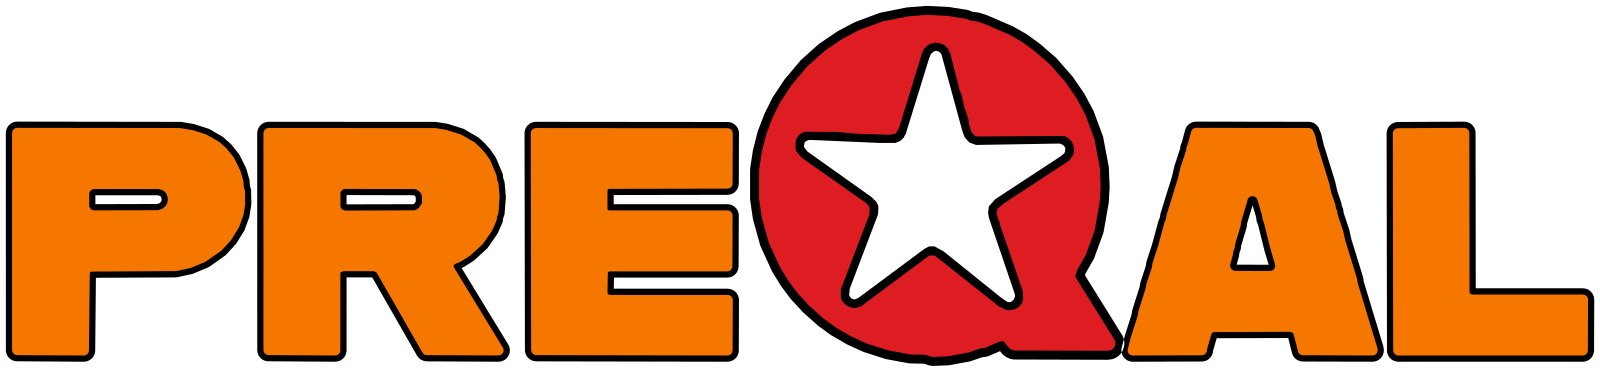
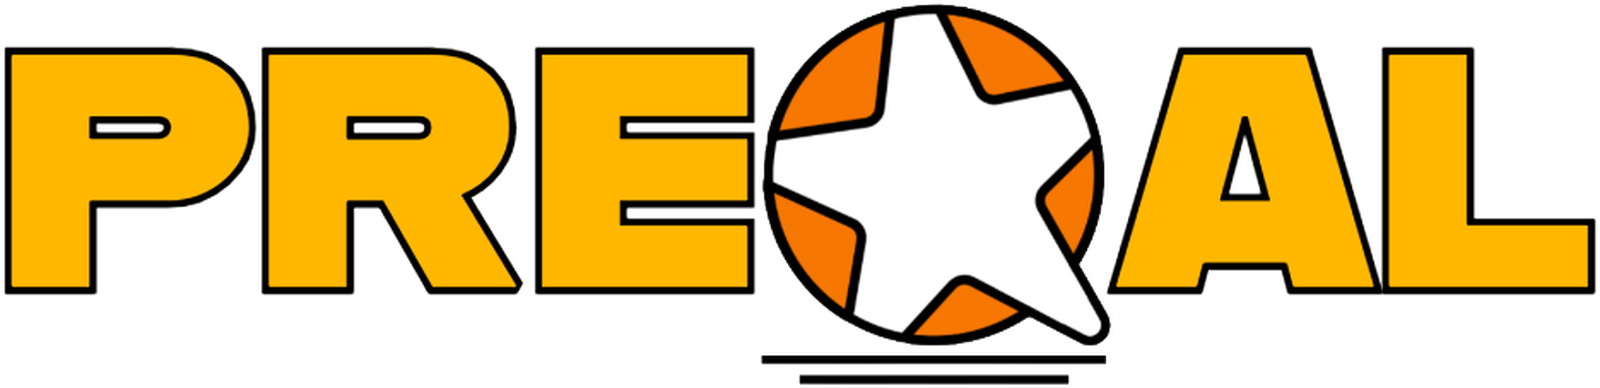
brand: adopt the new Q-star roundel and amber wordmark
New marks supplied by the brand owner, replacing every earlier variant:
- wordmark: PREQAL in amber #FFB700 with a black outline, the Q an orange
  #F67702 roundel holding a white star, with two rules beneath it
- Q-mark / favicon: the same roundel, standalone
- stacked lockup saved as public/preqal-logo-stacked.png (available, unused)

Installed to favicon.png, the Sep25-9 master and every webp/avif variant,
ims/assets/preqal-wordmark.png, and ims/assets/preqal-lockup.png so Word
documents carry the new mark too.

The wordmark aspect changes 5.75 to 4.12 (it now carries the underlines), so
the intrinsic width attributes follow it: navbar/footer 172 to 124 at the 30px
display height set in 43694e7, admin + qms sidebars to 148 at 36px, and
LOCKUP_PX to 1600x388 for the document cover and page header.

Note: preqal-logo.svg, preqal-logo-bigq.svg and their -hd rasters still hold
the previous art and no longer match; the PNGs are the source of truth until
new vectors are supplied. Recorded in CLAUDE.md.

diff --git a/components/Footer.tsx b/components/Footer.tsx
@@ -102,19 +102,19 @@ const Footer: React.FC = () => {
                 <source
                   type="image/avif"
                   srcSet={`${import.meta.env.BASE_URL}Preqal%20Logo%20Sep25-9-200.avif 200w, ${import.meta.env.BASE_URL}Preqal%20Logo%20Sep25-9-400.avif 400w`}
-                  sizes="172px"
+                  sizes="124px"
                 />
                 <source
                   type="image/webp"
                   srcSet={`${import.meta.env.BASE_URL}Preqal%20Logo%20Sep25-9-200.webp 200w, ${import.meta.env.BASE_URL}Preqal%20Logo%20Sep25-9-400.webp 400w`}
-                  sizes="172px"
+                  sizes="124px"
                 />
                 <img
                   src={`${import.meta.env.BASE_URL}Preqal%20Logo%20Sep25-9-400.webp`}
                   alt="Preqal logo"
                   className="w-auto object-contain"
                   style={{ height: '1.875rem' }}
-                  width="172"
+                  width="124"
                   height="30"
                   loading="lazy"
                   decoding="async"

diff --git a/components/Navbar.tsx b/components/Navbar.tsx
@@ -54,17 +54,17 @@ const Navbar: React.FC = () => {
                 <source
                   type="image/avif"
                   srcSet={`${import.meta.env.BASE_URL}Preqal%20Logo%20Sep25-9-200.avif 200w, ${import.meta.env.BASE_URL}Preqal%20Logo%20Sep25-9-400.avif 400w`}
-                  sizes="172px"
+                  sizes="124px"
                 />
                 <source
                   type="image/webp"
                   srcSet={`${import.meta.env.BASE_URL}Preqal%20Logo%20Sep25-9-200.webp 200w, ${import.meta.env.BASE_URL}Preqal%20Logo%20Sep25-9-400.webp 400w`}
-                  sizes="172px"
+                  sizes="124px"
                 />
                 <img
                   src={`${import.meta.env.BASE_URL}Preqal%20Logo%20Sep25-9-400.webp`}
                   alt="Preqal logo"
-                  width="172"
+                  width="124"
                   height="30"
                   className="h-[30px] w-auto transition-transform duration-300 hover:scale-105"
                   loading="eager"

diff --git a/public/qms/index.html b/public/qms/index.html
@@ -264,7 +264,7 @@
       <picture>
         <source type="image/avif" srcset="/Preqal%20Logo%20Sep25-9-200.avif 200w,/Preqal%20Logo%20Sep25-9-400.avif 400w" sizes="160px">
         <source type="image/webp" srcset="/Preqal%20Logo%20Sep25-9-200.webp 200w,/Preqal%20Logo%20Sep25-9-400.webp 400w" sizes="160px">
-        <img src="/Preqal%20Logo%20Sep25-9-200.webp" alt="Preqal" width="207" height="36" style="height:36px;width:auto" loading="eager">
+        <img src="/Preqal%20Logo%20Sep25-9-200.webp" alt="Preqal" width="148" height="36" style="height:36px;width:auto" loading="eager">
       </picture>
       <span class="sidebar-tag">Quality Management System</span>
     </div>

diff --git a/public/admin-dashboard.html b/public/admin-dashboard.html
@@ -196,7 +196,7 @@
       <picture>
         <source type="image/avif" srcset="/Preqal%20Logo%20Sep25-9-200.avif 200w,/Preqal%20Logo%20Sep25-9-400.avif 400w" sizes="160px">
         <source type="image/webp" srcset="/Preqal%20Logo%20Sep25-9-200.webp 200w,/Preqal%20Logo%20Sep25-9-400.webp 400w" sizes="160px">
-        <img src="/Preqal%20Logo%20Sep25-9-200.webp" alt="Preqal" width="207" height="36" style="height:36px;width:auto" loading="eager">
+        <img src="/Preqal%20Logo%20Sep25-9-200.webp" alt="Preqal" width="148" height="36" style="height:36px;width:auto" loading="eager">
       </picture>
       <span class="sidebar-tag">Admin Dashboard</span>
     </div>

diff --git a/CLAUDE.md b/CLAUDE.md
@@ -307,10 +307,19 @@ Every POL and PRO document published to `public/ims/` follows the same branded c
 ### Logo assets
 | Asset | File | Used for |
 |---|---|---|
-| Favicon (white Q speech-bubble mark, red star) | `public/favicon.png` (512×512 px) | Cover page large mark + small mark in page header |
+| Favicon (orange Q-star roundel with underlines) | `public/favicon.png` (512×512 px) | Cover page large mark + small mark in page header |
 | Wordmark (`PREQAL` text, star in the Q) | `public/ims/assets/preqal-wordmark.png` (240×42 px) | Below the favicon on the cover page |
 
-The wordmark is a downscale of `public/Preqal Logo Sep25-9.png` (954×166 px master; same art also serves the site navbar/footer via the `-200`/`-400` webp/avif variants). **Never** stretch — `noChangeAspect="1"` is set on every inline drawing. Logos refreshed 2026-07-20 (rebrand: orange Q-star mark + horizontal wordmark, replacing the hexagon mark and square 500×500 canvases). Wordmark refreshed again 2026-07-27: letter corners softened (rounded) and the Q recolored red `#DD1D21`; all Sep25-9 raster variants + `ims/assets/preqal-wordmark.png` were regenerated from the new vector master `public/preqal-logo.svg` (a 4800px raster of the same art lives at `public/preqal-logo-hd.png`). Favicon refreshed 2026-07-27: Q-star mark recolored red `#DD1D21` to match the wordmark Q (same 512×512 canvas, composition unchanged). Gold/yellow star variants were trialled and reverted on 2026-08-05. **Inverted on 2026-09-01 and current:** in both marks the Q is **white with a black outline** and the star is **red `#DD1D21`** (previously a red Q with a white star). The other wordmark letters stay orange `#F67700`. The swap was applied to every raster (favicon, all Sep25-9 variants, `ims/assets/preqal-wordmark.png`, both `-hd` masters) and mirrored in the vector masters `public/preqal-logo.svg` and `public/preqal-logo-bigq.svg`.
+The wordmark is a downscale of `public/Preqal Logo Sep25-9.png` (936×227 px master, aspect 4.12; same art serves the site navbar/footer via the `-200`/`-400` webp/avif variants). **Never** stretch — `noChangeAspect="1"` is set on every inline drawing.
+
+**Current marks (2026-09-01) — supersede every earlier variant.** The brand is now:
+- **Wordmark:** `PREQAL` in amber `#FFB700` with a black outline; the Q is an orange `#F67702` roundel holding a **white** star, with two short rules beneath it.
+- **Q-mark / favicon:** the same orange roundel + white star + underlines, standalone.
+- **Stacked lockup:** `public/preqal-logo-stacked.png` (mark above a small wordmark) — supplied by the brand owner and available, not yet used anywhere.
+
+Earlier states (for history only, all replaced): orange Q + white star (2026-07-20), red `#DD1D21` Q + white star (2026-07-27), white Q + red star (2026-09-01, inverted then superseded same day).
+
+⚠ The vector masters `public/preqal-logo.svg`, `public/preqal-logo-bigq.svg` and their `-hd` rasters still hold the **pre-2026-09-01** art and no longer match the live marks. The PNGs above are the source of truth until new vectors are supplied.
 
 ### Page header (recurring on every page)
 Single paragraph, bottom-border `#E2E8F0`:
